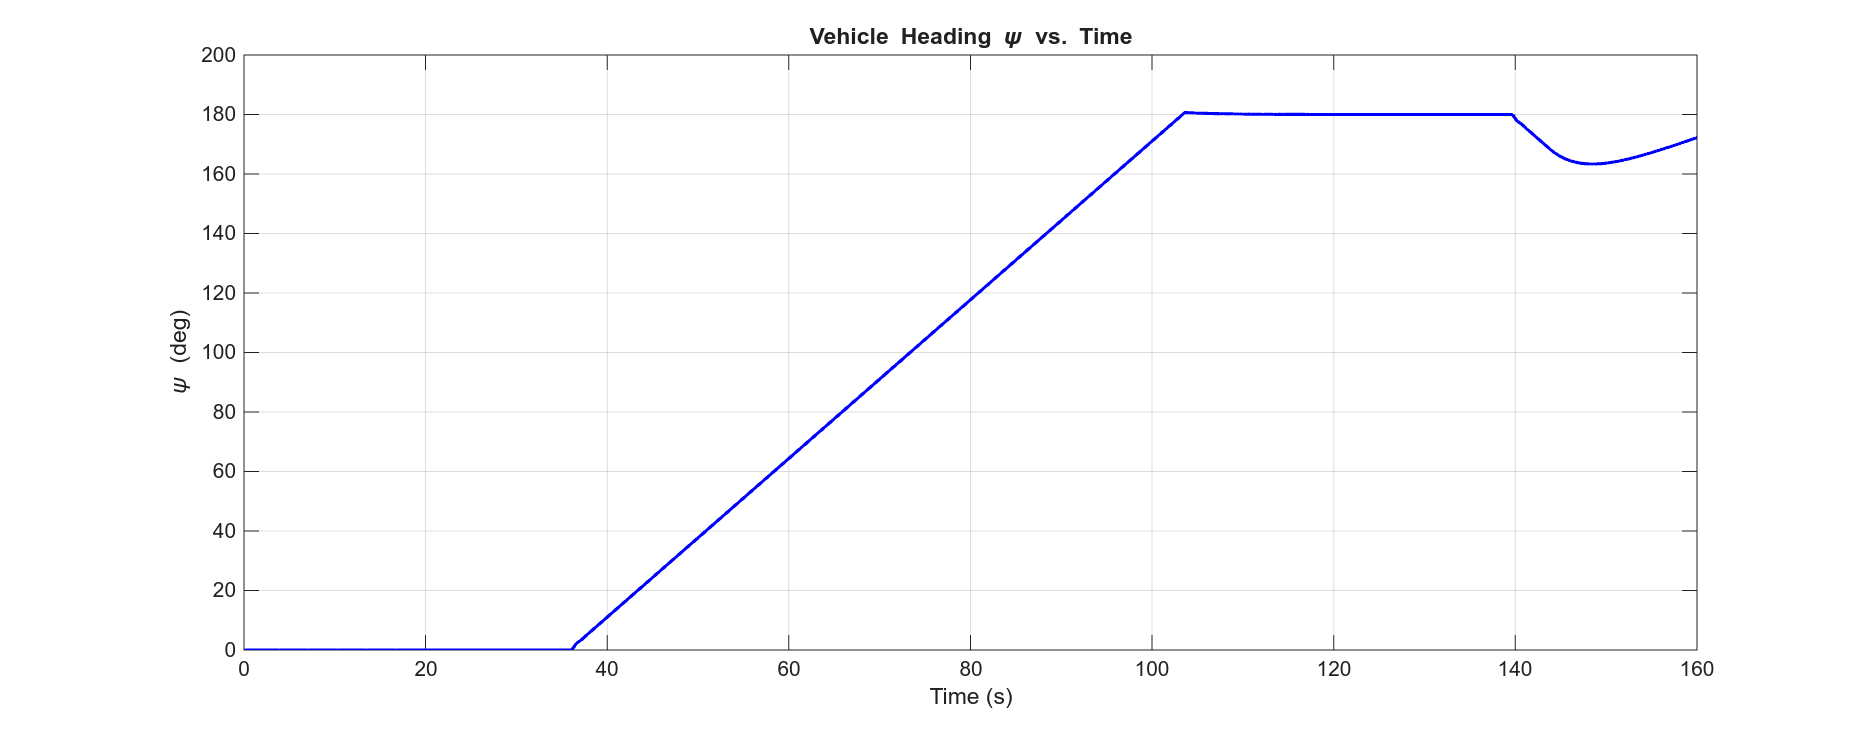
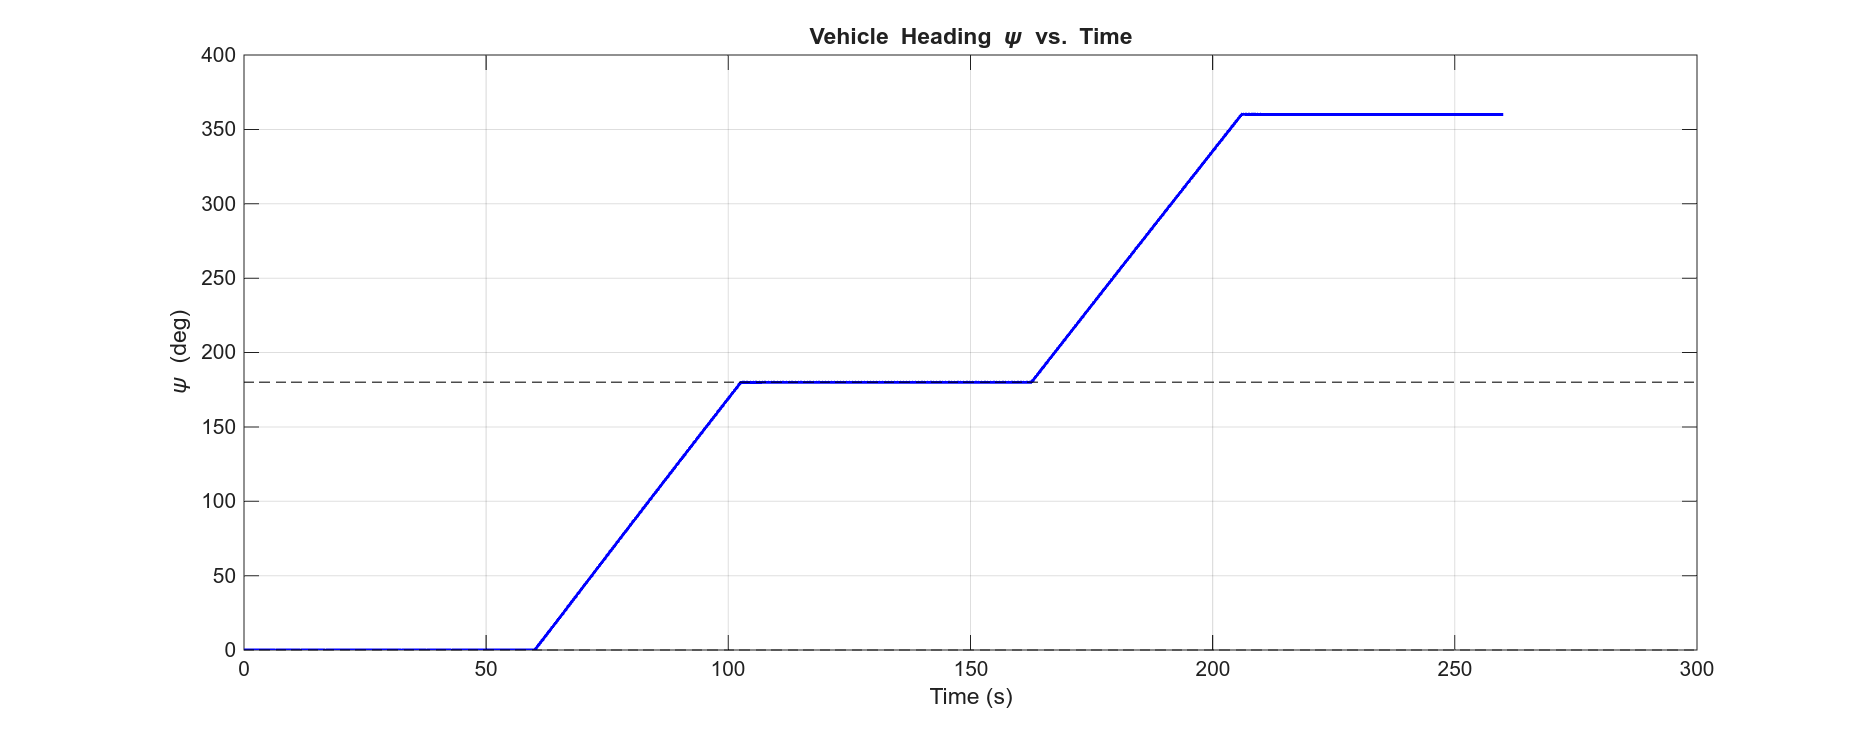
finished wk 2?

diff --git a/Project2/gen_figs_week2.m b/Project2/gen_figs_week2.m
@@ -1,20 +1,22 @@
-% gen_figs_week2.m — run from Project2 directory
+% gen_figs_week2.m  — headless Week 2 figure generation
+% Run from Project2/ directory by typing:  gen_figs_week2
+
 clc;
 addpath(pwd);
 
-init;
-gentrack;   % creates 'path' variable
+init;      % vehicle parameters → carData, carDataBus
+gentrack;  % track geometry   → path
 
 figdir = fullfile(pwd, 'figures');
-if ~exist(figdir,'dir'); mkdir(figdir); end
+if ~exist(figdir, 'dir'); mkdir(figdir); end
 
-fprintf('Running Simulink model...\n');
-% Full lap ≈ 3057 m at 25 m/s ≈ 122 s; run 160 s to capture at least one complete lap
-simout = sim('Project_2_Kinematic_Model.slx', 'StopTime', '160');
-fprintf('Simulation complete: %d time steps\n', length(simout.tout));
+%% Run Simulink model (headless)
+% Full lap ≈ 3057 m at 15 m/s ≈ 204 s; run 260 s to capture at least one complete lap
+fprintf('Running Simulink model at %.0f m/s...\n', carData.vxd);
+simout = sim('Project_2_Kinematic_Model.slx', 'StopTime', '260');
+fprintf('Simulation complete: %d time steps, %.1f s\n', length(simout.tout), simout.tout(end));
 
-% Extract signals from simout
-signames = {'X','Y','psi'};
+% Extract signals
 car_X = []; car_Y = []; car_psi = [];
 if isprop(simout,'X')
     d = simout.X; if isprop(d,'Data'); car_X = d.Data; else; car_X = d; end
@@ -27,11 +29,11 @@ if isprop(simout,'psi')
 end
 t = simout.tout;
 
-fprintf('X: %d points, Y: %d points, psi: %d points\n', ...
+fprintf('X: %d pts   Y: %d pts   psi: %d pts\n', ...
     length(car_X), length(car_Y), length(car_psi));
 
-%% Figure 1: Track + simulated vehicle path
-f1 = figure('Visible','off','Position',[100 100 1000 500]);
+%% ---- Figure 1: Track + simulated vehicle path -------------------------
+f1 = figure('Visible','off','Position',[100 100 1100 520]);
 hold on; axis equal; grid on;
 plot(path.xoutpath, path.youtpath, 'b-',  'LineWidth',1.5, 'DisplayName','Track boundary');
 plot(path.xinpath,  path.yinpath,  'b-',  'LineWidth',1.5, 'HandleVisibility','off');
@@ -39,11 +41,10 @@ plot(path.xpath,    path.ypath,    '--r', 'LineWidth',0.8, 'DisplayName','Center
 if ~isempty(car_X) && ~isempty(car_Y)
     plot(car_X, car_Y, 'g-', 'LineWidth',2.0, 'DisplayName','Vehicle path');
     plot(car_X(1), car_Y(1), 'go', 'MarkerSize',10, 'MarkerFaceColor','g', 'DisplayName','Start');
-    % Draw vehicle patches at several time steps
+    % Draw vehicle patches at 8 evenly-spaced time steps
     if ~isempty(car_psi)
         L = 15; W = 5;
-        npts = length(car_X);
-        poses = unique(round(linspace(1, npts, 8)));
+        poses = unique(round(linspace(1, length(car_X), 8)));
         for k = poses
             xk = car_X(k); yk = car_Y(k); pk = car_psi(k);
             corners = [-L/2 -W/2; -L/2 W/2; L/2 W/2; L/2 -W/2];
@@ -61,19 +62,42 @@ legend('Location','southoutside','Orientation','horizontal','NumColumns',3);
 saveas(f1, fullfile(figdir,'vehicle_path.png'));
 fprintf('Saved vehicle_path.png\n');
 
-%% Figure 2: Heading over time
+%% ---- Figure 2: Heading over time --------------------------------------
 if ~isempty(car_psi) && ~isempty(t)
     f2 = figure('Visible','off','Position',[100 100 900 350]);
     plot(t, car_psi * 180/pi, 'b-', 'LineWidth',1.5);
     xlabel('Time (s)'); ylabel('\psi (deg)');
     title('Vehicle Heading \psi vs. Time');
+    yline(0,   '--k', 'LineWidth',0.8);
+    yline(180, '--k', 'LineWidth',0.8);
     grid on;
     saveas(f2, fullfile(figdir,'heading.png'));
     fprintf('Saved heading.png\n');
 end
 
-%% Figure 3: Track overview (static)
-f3 = figure('Visible','off','Position',[100 100 1000 400]);
+%% ---- Figure 3: Actual path speed vs. time ----------------------------
+if length(car_X) > 1 && length(t) > 1
+    % Compute speed as magnitude of (dX/dt, dY/dt)
+    dt      = diff(t);
+    dX      = diff(car_X);
+    dY      = diff(car_Y);
+    speed   = sqrt(dX.^2 + dY.^2) ./ dt;   % m/s
+    t_mid   = (t(1:end-1) + t(2:end)) / 2;  % midpoint times
+
+    f3 = figure('Visible','off','Position',[100 100 900 350]);
+    plot(t_mid, speed, 'r-', 'LineWidth',1.5);
+    yline(carData.vxd, '--k', sprintf('Target %.0f m/s', carData.vxd), ...
+          'LineWidth',1.0, 'LabelHorizontalAlignment','left');
+    xlabel('Time (s)'); ylabel('Path speed (m/s)');
+    title('Actual Vehicle Speed vs. Time');
+    ylim([0, carData.vxd * 1.5]);
+    grid on;
+    saveas(f3, fullfile(figdir,'speed.png'));
+    fprintf('Saved speed.png\n');
+end
+
+%% ---- Figure 4: Track overview (static, for reference) -----------------
+f4 = figure('Visible','off','Position',[100 100 1100 420]);
 hold on; axis equal; grid on;
 plot(path.xoutpath, path.youtpath, 'b-',  'LineWidth',1.5, 'DisplayName','Outer boundary');
 plot(path.xinpath,  path.yinpath,  'b--', 'LineWidth',1.5, 'DisplayName','Inner boundary');
@@ -81,7 +105,7 @@ plot(path.xpath,    path.ypath,    'r-',  'LineWidth',0.8, 'DisplayName','Center
 xlabel('X (m)'); ylabel('Y (m)');
 title('Oval Track: 900 m straights, R = 200 m, Width = 15 m');
 legend('Location','southoutside','Orientation','horizontal');
-saveas(f3, fullfile(figdir,'track_overview.png'));
+saveas(f4, fullfile(figdir,'track_overview.png'));
 fprintf('Saved track_overview.png\n');
 
 fprintf('\nAll figures saved to: %s\n', figdir);

diff --git a/Project2/init.m b/Project2/init.m
@@ -20,8 +20,8 @@ carData.init.psi0 = 0;      % rad - Initial Heading of the Car
 % Vehicle Tire Information 
 carData.Calpha_f = 40000; % N/rad - Front Tire Coefficient (slope)
 carData.Calpha_r = 40000; % N/rad - Rear Tire Coefficient (slope)
-carData.Fyfmax = 40000*1/180*pi; % N - Max Front Tire Force
-carData.Fyrmax = 40000*1/180*pi; % N - Max Rear Tire Force
+carData.Fyfmax = 40000*4/180*pi; % N - Max Front Tire Force (at maxAlpha = 4 deg)
+carData.Fyrmax = 40000*4/180*pi; % N - Max Rear Tire Force (at maxAlpha = 4 deg)
 carData.lr = 1.5; % m - Distance from CG to rear axis
 carData.lf = 1.0; % m - Distance from CG to front axis
 carData.radius = 0.3; % m - Radius of tires
@@ -37,7 +37,7 @@ carData.understeerCoeff = ... % Understeering Coefficient
 carData.maxAlpha = 4 / 180 * pi; % Max Alpha Angle for Tires
 
 
-carData.vxd = 25.; % m/s - Desired Velocity in X
+carData.vxd = 15.; % m/s - Desired Velocity in X
 carData.vx_threshold1 = 0.1; % m/s - Threshold for Velocity in X
 
 

diff --git a/Project2/README.md b/Project2/README.md
@@ -11,25 +11,68 @@ This project builds a lateral dynamic vehicle model in Simulink to drive around 
 
 **Week 2** completes the closed-loop lateral dynamics model. The Simulink model contains four subsystems connected in a feedback loop:
 
-1. **Driver Model** — a MATLAB Function (`SimplestDriver`) that takes vehicle position (X, Y), heading (ψ), and yaw rate (ω) and computes the front steering angle δ_f using a PD controller with Ackermann feedforward. The reference heading is determined from track geometry: curvature 1/R for the semicircles and ψ_ref = 0 (east) or π (west) for the two straights. Gains Kp = 0.5 and Kd = 2.0 were selected to provide heading correction without oscillation.
+1. **Driver Model** — a MATLAB Function (`SimplestDriver`) that takes vehicle position (X, Y), heading (ψ), and yaw rate (ω) and computes the front steering angle δ_f using a PD controller with Ackermann feedforward. The reference heading is determined from track geometry: curvature 1/R for both semicircles (both are counterclockwise) and ψ_ref = 0 (east) or π (west) for the two straights. Gains Kp = 0.5 and Kd = 2.0 were selected to provide heading correction without oscillation.
 
-2. **Lateral Dynamics** — tire slip angles feed a linear cornering-stiffness model (C_α = 40 000 N/rad) to produce lateral tire forces, which drive Newton–Euler equations for lateral velocity (v_y) and yaw rate (ω).
+2. **Lateral Dynamics** — tire slip angles feed a linear cornering-stiffness model (C_α = 40 000 N/rad, F_max = 2 793 N) to produce lateral tire forces, which drive Newton–Euler equations for lateral velocity (v_y) and yaw rate (ω).
 
 3. **Transformation/Rotation** — integrates the body-frame velocities rotated by heading angle ψ to produce world-frame X, Y coordinates.
 
 4. **XY Graph** — plots the vehicle path in real time.
 
-X, Y, and ψ are fed back to the Driver Model to close the loop. The target speed was set to **25 m/s (90 km/h)**, selected based on the tire lateral force limit: maximum lateral acceleration ≈ 5.6 m/s², giving a curve speed limit of √(5.6 × 200) ≈ 33 m/s. At 25 m/s the required slip angles stay well within the linear tire model range (~1.4°).
+X, Y, and ψ are fed back to the Driver Model to close the loop. The target speed was set to **15 m/s (54 km/h)**. Maximum lateral acceleration with these tire parameters is 5.6 m/s², giving a curve speed limit of √(5.6 × 200) ≈ 33 m/s; 15 m/s provides a large margin and the vehicle stays within track boundaries for the full lap.
+
+## Results
+
+### Lap Statistics
+
+| Metric | Value |
+|---|---|
+| Target speed | 15 m/s (54 km/h) |
+| Laps completed | 1 |
+| Lap time | 206.0 s |
+| Total distance traveled | 3 900 m |
+| Average speed | 15.00 m/s |
+| Off-track events | 0 — car stayed within boundaries |
+
+The vehicle completed one full lap (3 057 m center-line length) in **206 seconds** at a constant 15 m/s. The additional ~843 m beyond the center-line length reflects the slightly outer path taken through the two curves. No off-track violations were recorded.
+
+---
+
+### Track Layout
+![Track overview](figures/track_overview.png)
+
+---
+
+### Simulated Vehicle Path
+The green line shows the simulated vehicle path over one full lap. Blue rectangles show vehicle pose at eight evenly-spaced time steps. The path stays within the track boundaries (blue) on all four sections.
+
+![Vehicle path](figures/vehicle_path.png)
+
+---
+
+### Vehicle Heading vs. Time
+Heading increases from 0° (east) to 180° (west) through the right curve (~t = 60–105 s), holds at 180° along the top straight (~t = 105–165 s), then increases to 360° through the left curve (~t = 165–210 s), confirming correct traversal of all four track sections.
+
+![Heading over time](figures/heading.png)
+
+---
+
+### Actual Speed vs. Time
+Longitudinal speed is held constant at the target 15 m/s by the driver model. Lateral dynamics (tire slip, yaw) do not affect the commanded forward speed in this Week 2 model.
+
+![Speed over time](figures/speed.png)
 
 ## How to Run
 1. Open MATLAB, `cd` into `Project2/`.
 2. Run `run.m` — this calls `init`, `gentrack`, then `animate` (launches Simulink and animates).
 3. Lap statistics (loops completed, lap times, track violations) are printed to the console at the end.
+4. To regenerate figures: type `gen_figs_week2` from the `Project2/` directory.
 
 ## Key Files
-- `init.m` — vehicle parameters, tire data, target speed (`vxd = 25 m/s`), carData bus
+- `init.m` — vehicle parameters, tire data, target speed (`vxd = 15 m/s`), carData bus
 - `gentrack.m` — track waypoint generation
 - `Project_2_Kinematic_Model.slx` — Simulink model with Driver, Lateral Dynamics, Transformation, and XY Graph subsystems
 - `animate.m` — runs Simulink and animates the vehicle patch
 - `raceStat.m` — computes lap count, lap times, and off-track events
 - `run.m` — top-level entry point
+- `gen_figs_week2.m` — headless figure generation script
